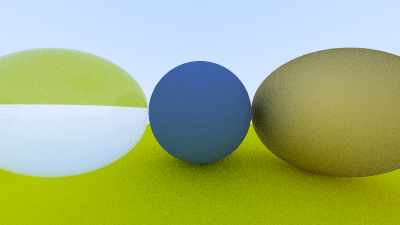
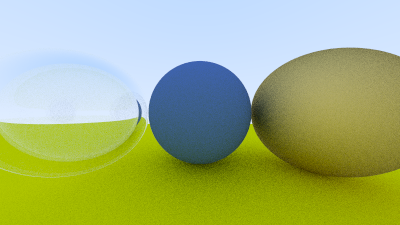
bug fix

Changed region(s): [[0.0, 0.1867, 0.39, 0.8089]]

diff --git a/src/InOneWeekendRust/src/main.rs b/src/InOneWeekendRust/src/main.rs
@@ -60,7 +60,7 @@ fn main() {
     // 左球・内側バブル（負の半径 → 法線が内向きになり空気層の内面を形成）
     world.add(Sphere::new(
         glam::Vec3::new(-1.0, 0.0, -1.0),
-        -0.4,
+        0.4,
         mat_bubble,
     ));
     // 右球（Metal）
